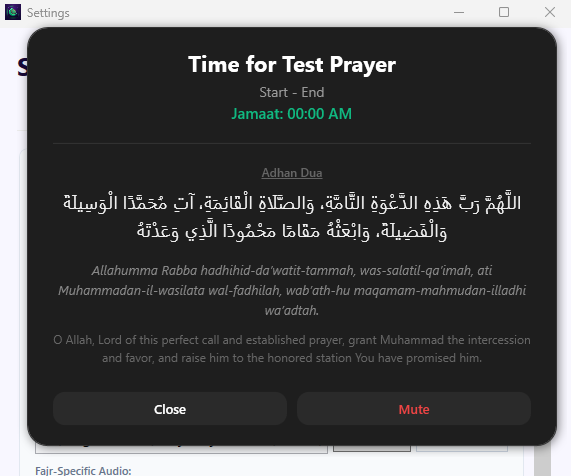
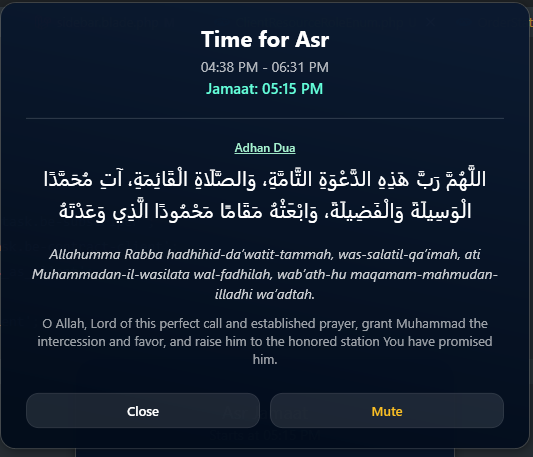
feat: implement MSIX packaging build script and configure project assets

diff --git a/DailyPrayerTime.Native/Assets/generate_store_assets.py b/DailyPrayerTime.Native/Assets/generate_store_assets.py
@@ -1,0 +1,56 @@
+import os
+from PIL import Image
+
+def generate_assets():
+    script_dir = os.path.dirname(os.path.abspath(__file__))
+    source_path = os.path.join(script_dir, "app_logo.png")
+    output_dir = os.path.join(script_dir, "Store")
+    
+    if not os.path.exists(output_dir):
+        os.makedirs(output_dir)
+        
+    print(f"Loading source logo: {source_path}")
+    # Convert image to RGBA to ensure we have alpha channel for transparency mask
+    logo = Image.open(source_path).convert("RGBA")
+    
+    # MSIX Required Asset Dimensions (Width, Height)
+    assets = {
+        "Square44x44Logo.png": (44, 44),
+        "Square150x150Logo.png": (150, 150),
+        "StoreLogo.png": (50, 50),
+        "Wide310x150Logo.png": (310, 150),
+        "SplashScreen.png": (620, 300)
+    }
+    
+    for name, size in assets.items():
+        w, h = size
+        # Create a transparent background
+        bg = Image.new("RGBA", size, (0, 0, 0, 0))
+        
+        # Determine scaling factors to preserve aspect ratio with some padding
+        if w == h:
+            # Square icons: Scale logo to fit 80% of the box
+            max_dim = int(w * 0.8)
+            logo_scaled = logo.copy()
+            logo_scaled.thumbnail((max_dim, max_dim), Image.Resampling.LANCZOS)
+            
+            # Center on background
+            offset = ((w - logo_scaled.width) // 2, (h - logo_scaled.height) // 2)
+            bg.paste(logo_scaled, offset, logo_scaled)
+        else:
+            # Wide icons (Wide310x150 / Splash Screen):
+            # Scale logo to fit 50% of the height
+            max_h = int(h * 0.5)
+            logo_scaled = logo.copy()
+            logo_scaled.thumbnail((w, max_h), Image.Resampling.LANCZOS)
+            
+            # Center on background
+            offset = ((w - logo_scaled.width) // 2, (h - logo_scaled.height) // 2)
+            bg.paste(logo_scaled, offset, logo_scaled)
+            
+        out_path = os.path.join(output_dir, name)
+        bg.save(out_path, "PNG")
+        print(f"Generated: {name} ({w}x{h}) -> {out_path}")
+
+if __name__ == "__main__":
+    generate_assets()
